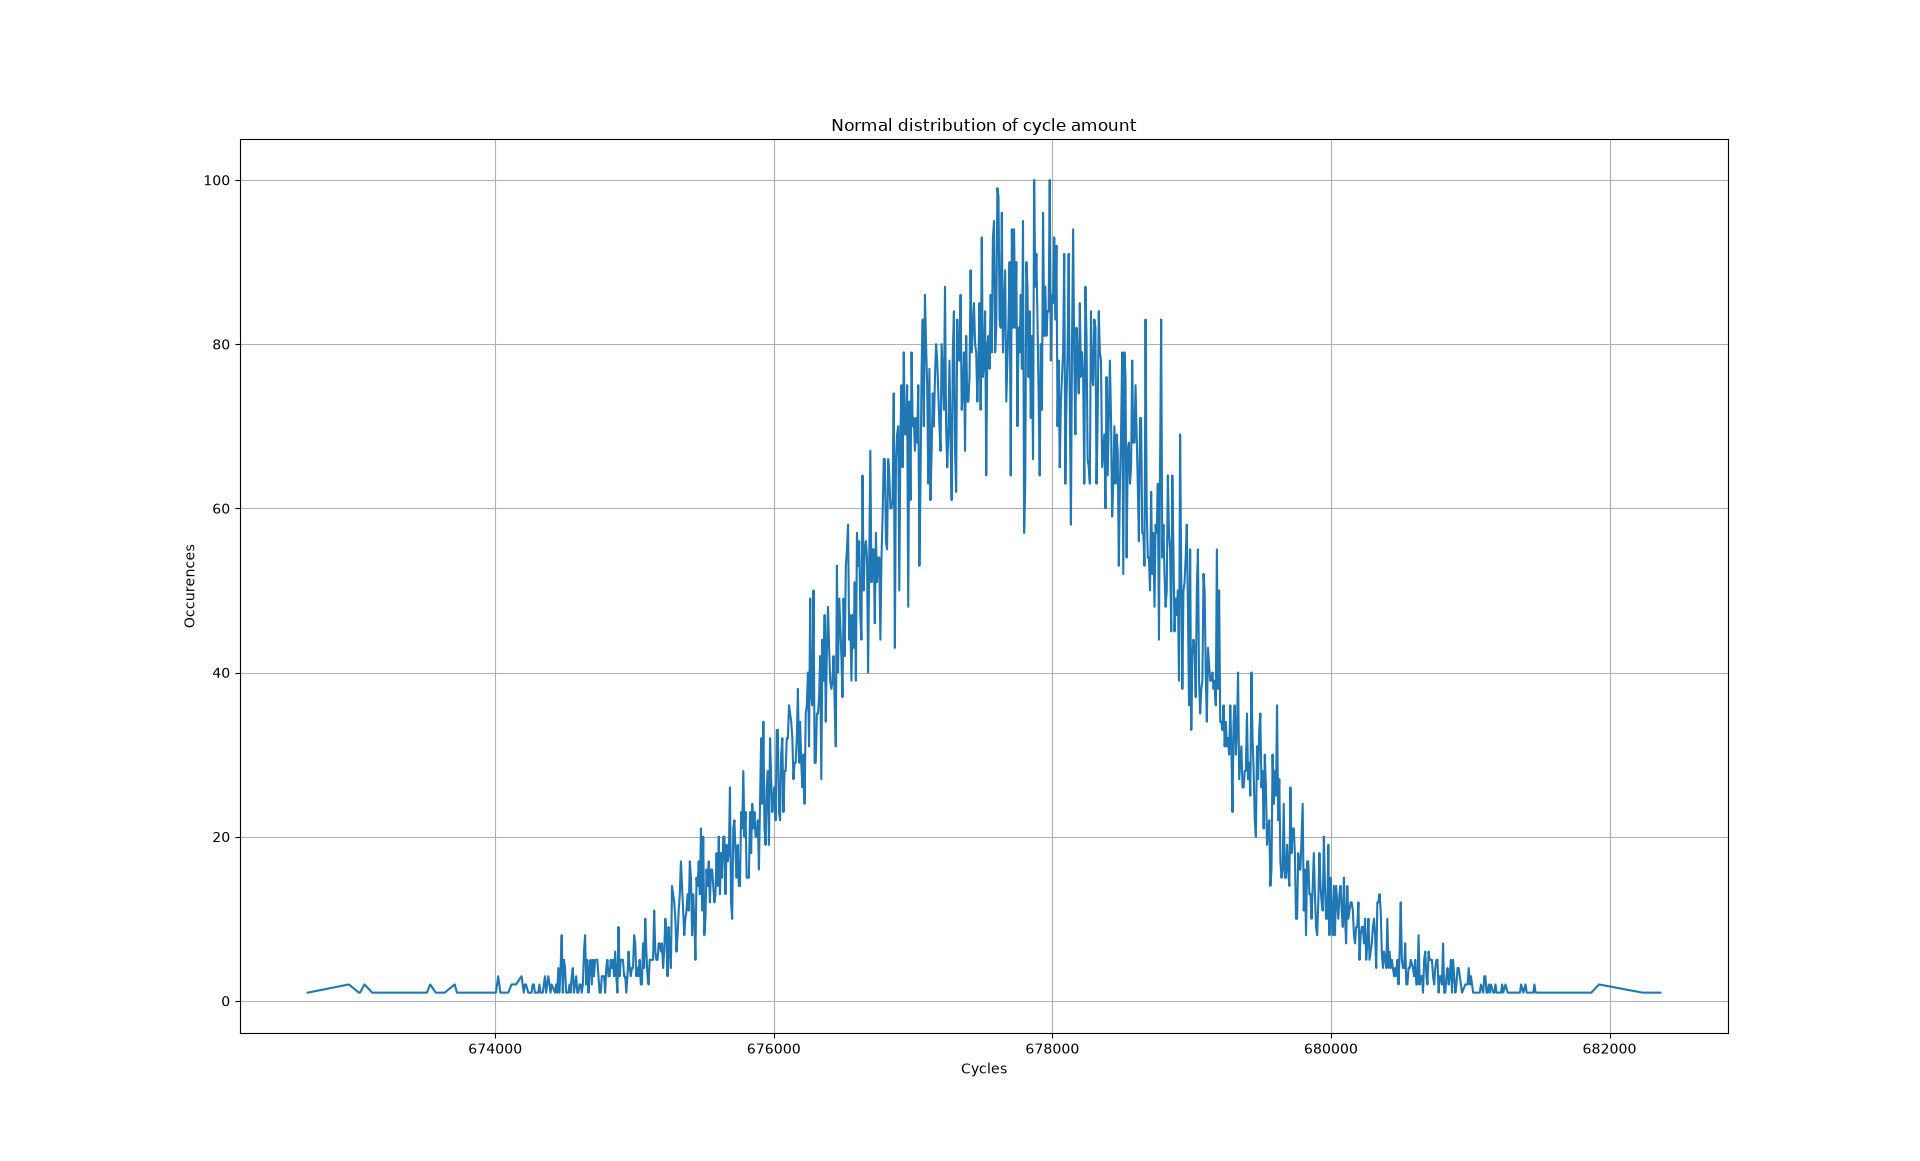
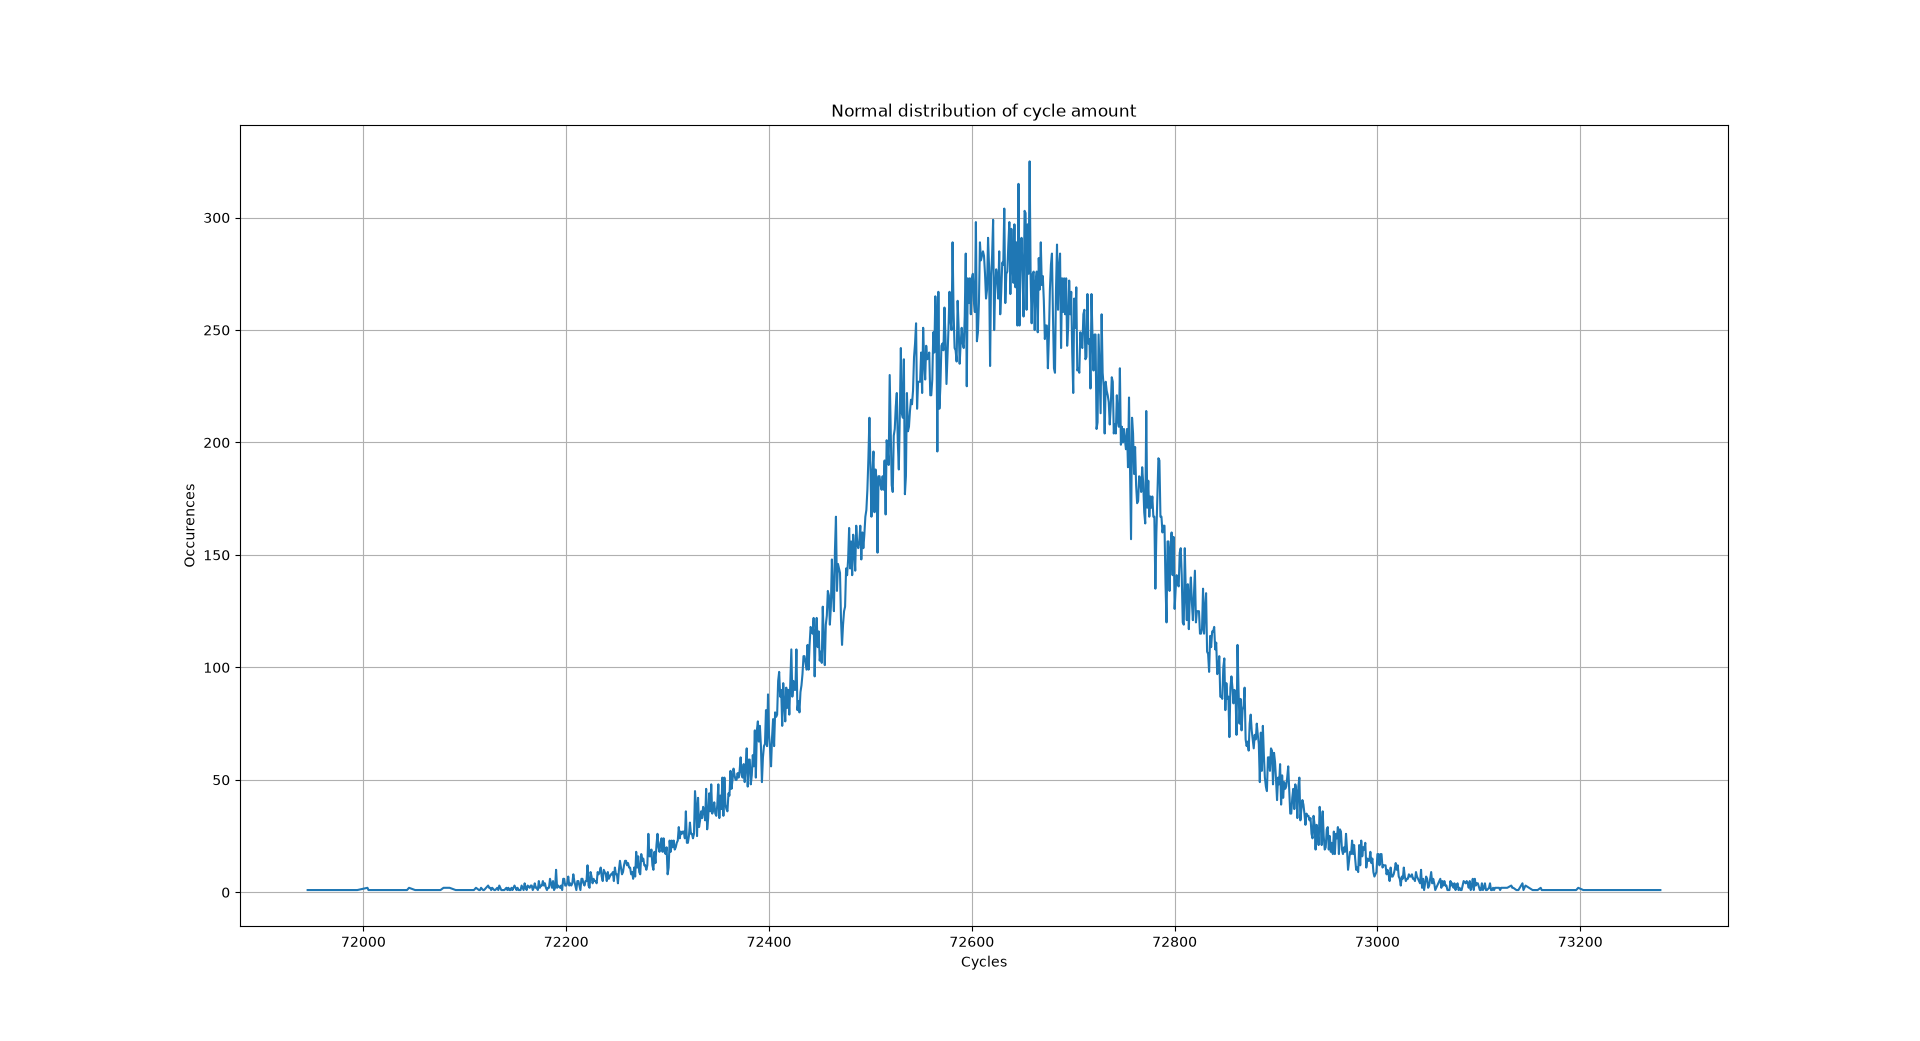
Bilder av normal fordeling av klokkesykluser

Changed region(s): [[0.125, 0.1537, 0.9062, 0.9222], [0.4375, 0.0922, 0.5938, 0.123], [0.0938, 0.5226, 0.125, 0.5533]]

diff --git a/High level code/rsa_addition_test.py b/High level code/rsa_addition_test.py
@@ -9,46 +9,7 @@ phi = (p-1)*(q-1)
 e = 65537
 d = pow(e, -1, phi)
 k = n.bit_length()
- 
-# def compute_r2(n: int) -> int:
-#     r2 = 1
-#     for i in range(2 * k):
-#         r2 <<= 1            # double the value (left shift by one bit)
-#         if r2 >= n:         # keep the value in the range [0, n)
-#             r2 -= n
-#     return r2
-#
-#
-# def RSA(M: int, e: int, n: int, r2: int) -> int:
-#     M_bar = MonPro(M, r2, n)
-#     x_bar = M_bar
-#     for i in range(e.bit_length() - 2, -1, -1):
-#         x_bar = MonPro(x_bar, x_bar, n)        # square (every bit)
-#         if (e >> i) & 1:                       # bit i of e is 1:
-#             x_bar = MonPro(x_bar, M_bar, n)    # multiply by M_bar
-#     return MonPro(x_bar, 1, n)
-#
-#
-# def MonPro(A: int, B: int, n: int) -> int:
-#     S = 0                           # partial sum (S register in hardware)
-#     BN = B + n
-#
-#     for i in range(k):              # k = 256 iterations, one per bit of A
-#         a_i = (A >> i) & 1          # current bit of A: radix 2 means 1 bit per step
-#         q_i = (S + a_i * B) & 1
-#
-#         # 4:1 mux selecting what to add, controlled by (a_i, q_i):
-#         if a_i and q_i:
-#             S += BN                 # (1, 1): add B + n
-#         elif a_i:
-#             S += B                  # (1, 0): add B
-#         elif q_i:
-#             S += n                  # (0, 1): add n
-#         S >>= 1                     # exact division by 2 (sum is always even here)
-#     if S >= n:
-#         S -= n
-#     return S
- 
+worst_key = pow(2, 256) - 1
  
 
 def compute_r2(n: int) -> (int, int):
@@ -80,23 +41,22 @@ def RSA(M: int, e: int, n: int, r2: int) -> (int, int):
 def MonPro(A: int, B: int, n: int) -> (int, int):
     S = 0                       
     BN = B + n
-    addr = 8;
+    addr = 1;
     for i in range(k):           
         a_i = (A >> i) & 1        
         q_i = (S + a_i * B) & 1
         if a_i and q_i:
-            addr = addr + 8
+            addr = addr + 1
             S += BN                
         elif a_i:
-            addr = addr + 8
+            addr = addr + 1
             S += B                  
         elif q_i:
-            addr = addr + 8
+            addr = addr + 1
             S += n                 
         S >>= 1                     
-        addr = addr + 1
     if S >= n:
-        addr = addr + 8
+        addr = addr + 1
         S -= n
     return (S, addr)
 
@@ -107,13 +67,15 @@ def mean(arr):
 
 
 
-AMOUNT_OF_MESSAGES = 100
+AMOUNT_OF_MESSAGES = 100_000
 
 msg_src = []
 msg_enc = []
 addr_enc = []
 msg_dec = []
 addr_dec = []
+
+addr_worst_key = []
 
  
 r2, r2_cycles = compute_r2(n)    # once per key: shared by encryption and decryption
@@ -129,11 +91,14 @@ for i in range(AMOUNT_OF_MESSAGES):
     dec, addr = RSA(enc,d,n,r2)
     msg_dec.append(dec)
     addr_dec.append(addr)
+    tmp, addr = RSA(dec, worst_key,n,r2)
+    addr_worst_key.append(addr)
     print(i,"/",AMOUNT_OF_MESSAGES)
     assert num == dec
 
 addr_dec.sort()
 addr_enc.sort()
+addr_worst_key.sort()
 
 
 print()
@@ -157,7 +122,11 @@ print("Max for decoding =", max(addr_dec))
 print("Snitt for decoding =", mean(addr_dec))
 print("Min for decoding =", min(addr_dec))
 print()
-print("for R^2 % n",r2_cycles)
+print("Max for verste nøkkel =", max(addr_worst_key))
+print("Snitt for verste nøkkel =", mean(addr_worst_key))
+print("Min for verste nøkkel =", min(addr_worst_key))
+print()
+print("Sykluser for R^2 % n =",r2_cycles)
 print("############################################")
 
 
@@ -207,6 +176,26 @@ plt.grid(True)
 plt.show()
 
 
+prev = 0
+unique_amnt = -1
+normal_dist_x = []
+normal_dist_y = []
+for i in addr_worst_key:
+    if i != prev:
+        prev = i
+        unique_amnt = unique_amnt + 1
+        normal_dist_x.append(i)
+        normal_dist_y.append(1)
+    else:
+        normal_dist_y[unique_amnt] += 1
+    
+    
+plt.plot(normal_dist_x, normal_dist_y)
+plt.xlabel("Cycles")
+plt.ylabel("Occurences")
+plt.title("Normal distribution of cycle amount")
+plt.grid(True)
+plt.show()
 
 
 
